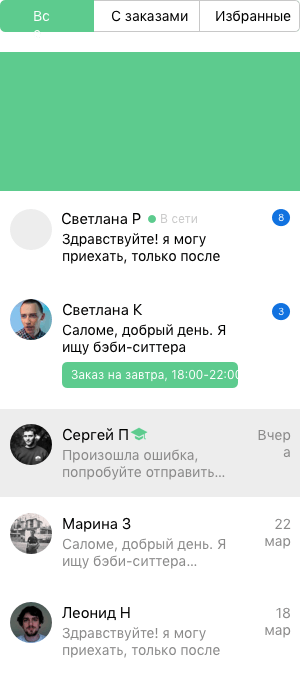
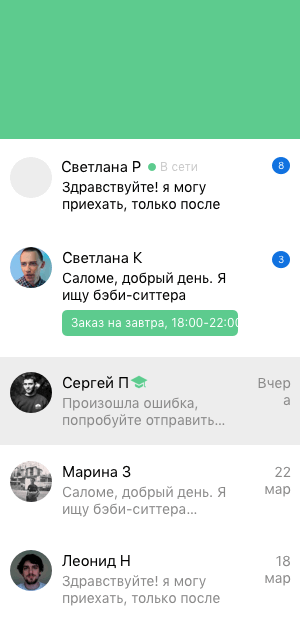
front-css: fixed

diff --git a/src/pages/ChatPage.js b/src/pages/ChatPage.js
@@ -37,9 +37,13 @@ class ChatPage extends Component {
 
     scrollToBottom() {
         const node = ReactDOM.findDOMNode(this.messagesContainer);
-        if (node) {
+        const nodeForm = ReactDOM.findDOMNode(this.formContainer);
+        console.log('node: ', node);
+        console.log('nodeForm: ', nodeForm);
+
+        if (node && nodeForm) {
             setTimeout(() => {
-                node.scrollTop = node.scrollHeight;
+                node.scrollTop = node.scrollHeight + nodeForm.scrollHeight;
             }, 10);
         }
     }
@@ -122,16 +126,21 @@ class ChatPage extends Component {
     renderForm() {
         const { message } = this.state;
         return (
-            <div className="chat__form">
-                <div className="row">
-                    <div className="col-10">
-                        <div className="chat__form-wrap">
-                            <div className="chat__form__message-copy">{message}{'\n'}</div>
-                            <textarea placeholder="Сообщение" value={message} onChange={this.onMessageChange} />
+            <div className="chat__form" ref={formContainer => { this.formContainer = formContainer; }}>
+                <div className="row container">
+                    <div className="col-3" />
+                    <div className="col-9">
+                        <div className="row chat__form__container">
+                            <div className="col-10">
+                                <div className="chat__form-wrap">
+                                    <div className="chat__form__message-copy">{message}{'\n'}</div>
+                                    <textarea placeholder="Сообщение" value={message} onChange={this.onMessageChange} />
+                                </div>
+                            </div>
+                            <div className="col-2">
+                                <button className="chat__form__btn" onClick={this.onSendMessage}>Отправить</button>
+                            </div>
                         </div>
-                    </div>
-                    <div className="col-2">
-                        <button className="chat__form__btn" onClick={this.onSendMessage}>Отправить</button>
                     </div>
                 </div>
             </div>
@@ -145,17 +154,29 @@ class ChatPage extends Component {
         if (!arParseMessages) { return null };
 
         return (
-            <div className="row container">
-                <div className="col-4">
-                    <div className="chat-users">
-                        <img src={leftSidebar} alt="leftSidebar" />
+            <div className="container container--main container--space">
+                <div className="chat-header">
+                    <div className="row container">
+                        <div className="col-3">
+                            <div className="chat-users__header"></div>
+                        </div>
+                        <div className="col-9">
+                            <ChatHeader profile={profile} />
+                        </div>
                     </div>
                 </div>
-                <div className="col-8">
-                    <ChatHeader profile={profile} />
-                    <div className="chat">
-                        {this.renderBody()}
-                        {this.renderForm()}
+
+                <div className="row">
+                    <div className="col-3">
+                        <div className="chat-sidebar">
+                            <img src={leftSidebar} alt="leftSidebar" width="100%"/>
+                        </div>
+                    </div>
+                    <div className="col-9">
+                        <div className="chat">
+                            {this.renderBody()}
+                            {this.renderForm()}
+                        </div>
                     </div>
                 </div>
             </div>

diff --git a/src/index.css b/src/index.css
@@ -424,6 +424,8 @@ body {
   margin: 0 auto;
   position: relative;
   padding: 0 70px; }
+  .container--main {
+    margin-top: 65px; }
 
 .hide {
   display: none; }
@@ -454,7 +456,11 @@ body {
 .header {
   height: 65px;
   background-color: #ffffff;
-  box-shadow: 0 2px 4px 0 rgba(0, 0, 0, 0.1); }
+  box-shadow: 0 2px 4px 0 rgba(0, 0, 0, 0.1);
+  position: fixed;
+  width: 100%;
+  top: 0;
+  z-index: 1; }
   .header__container {
     display: flex;
     align-items: center;
@@ -487,14 +493,23 @@ body {
   .header__menu a + a {
     margin-left: 40px; }
 
-.chat-users {
-  padding: 20px 0; }
-
 .chat-header {
+  position: fixed;
+  top: 65px;
+  left: 0;
+  width: 100%;
+  z-index: 1;
+  background-color: #f6f6f6; }
+
+.chat-sidebar {
+  padding: 20px 0;
+  height: 100%; }
+
+.chat-messages-header {
   border-bottom: 1px solid #c7c7c7;
   padding: 20px 0;
   position: relative; }
-  .chat-header__profile {
+  .chat-messages-header__profile {
     display: flex;
     align-items: center;
     position: absolute;
@@ -504,15 +519,15 @@ body {
 
 .chat__body {
   overflow-y: auto;
-  max-height: 75vh;
   overflow: -moz-scrollbars-none;
-  -ms-overflow-style: none; }
+  -ms-overflow-style: none;
+  background-color: #f6f6f6; }
 
 .chat__body::-webkit-scrollbar {
   width: 0 !important; }
 
 .chat {
-  padding: 20px 0 80px;
+  padding: 85px 0 80px;
   position: relative; }
   .chat__sender, .chat__recepient {
     width: 100%;
@@ -613,9 +628,15 @@ body {
   text-align: center; }
 
 .chat__form {
-  border-top: 1px solid #c7c7c7;
   width: 100%;
-  padding: 15px 0; }
+  position: fixed;
+  left: 0;
+  width: 100%;
+  bottom: 0; }
+  .chat__form__container {
+    border-top: 1px solid #c7c7c7;
+    padding: 15px 0;
+    background-color: #f6f6f6; }
   .chat__form__btn {
     border-radius: 5px;
     border: solid 2px #bfbfbf;
@@ -676,7 +697,7 @@ body {
   .row.right {
     justify-content: flex-end; }
   .row > [class*="col-"] {
-    padding: 0 10px; }
+    padding: 0 15px; }
   .row > [class*="col-"]:first-child {
     padding-left: 0; }
   .row > [class*="col-"]:last-child {

diff --git a/src/sass/base.sass b/src/sass/base.sass
@@ -37,6 +37,10 @@
   height: 65px
   background-color: #ffffff
   box-shadow: 0 2px 4px 0 rgba(0, 0, 0, 0.1)
+  position: fixed
+  width: 100%
+  top: 0
+  z-index: 1
 
   &__container
     display: flex
@@ -80,10 +84,19 @@
 //   /.header
 
 //   .chat
-.chat-users
-  padding: 20px 0
-
 .chat-header
+  position: fixed
+  top: 65px
+  left: 0
+  width: 100%
+  z-index: 1
+  background-color: #f6f6f6
+
+.chat-sidebar
+  padding: 20px 0
+  height: 100%
+
+.chat-messages-header
   border-bottom: 1px solid #c7c7c7
   padding: 20px 0
   position: relative
@@ -98,15 +111,15 @@
 
 .chat__body 
   overflow-y: auto
-  max-height: 75vh
   overflow: -moz-scrollbars-none
   -ms-overflow-style: none
+  background-color: #f6f6f6
 
 .chat__body::-webkit-scrollbar
   width: 0 !important
 
 .chat
-  padding: 20px 0 80px
+  padding: 85px 0 80px
   position: relative
 
   &__sender,
@@ -234,9 +247,16 @@
   text-align: center
 
 .chat__form
-  border-top: 1px solid #c7c7c7
   width: 100%
-  padding: 15px 0
+  position: fixed
+  left: 0
+  width: 100%
+  bottom: 0
+
+  &__container
+    border-top: 1px solid #c7c7c7
+    padding: 15px 0
+    background-color: #f6f6f6
 
   &__btn
     border-radius: 5px

diff --git a/src/components/Chat/ChatHeader.js b/src/components/Chat/ChatHeader.js
@@ -5,15 +5,15 @@ import Icon from './../Icon';
 const ChatHeader = props => {
     const { profile } = props;
     return (
-        <div className="chat-header centered">
-            <h3 className="chat-header__sender">{profile.name}</h3>
+        <div className="chat-messages-header centered">
+            <h3 className="chat-messages-header__sender">{profile.name}</h3>
             {profile.isOnline &&
                 <span className="status status--online">В сети</span>
             }
             {!profile.isOnline &&
                 <span className="status status--offline">Не в сети</span>
             }
-            <div className="chat-header__profile">
+            <div className="chat-messages-header__profile">
                 <Link to='/'>Профиль ситтера</Link>
                 <a><Icon className="svg-icon" iconName="icon-star" /></a>
             </div>

diff --git a/src/components/Header.js b/src/components/Header.js
@@ -30,7 +30,7 @@ class Header extends Component {
 
     return (
       <header className="header">
-        <div className="container header__container">
+        <div className="container container--space header__container">
           <Link className="header__logo" to='/'><img src={logo} alt="Logo" /></Link>
           <div className="header__menu">
               <NavLink to="/">Сообщения</NavLink>

diff --git a/src/sass/grid.sass b/src/sass/grid.sass
@@ -11,7 +11,7 @@
     justify-content: flex-end
 
   & > [class*="col-"]
-    padding: 0 10px
+    padding: 0 15px
 
   & > [class*="col-"]:first-child
     padding-left: 0

diff --git a/src/sass/layout.sass b/src/sass/layout.sass
@@ -37,4 +37,9 @@ body
   position: relative
   padding: 0 70px
 
+  &--main
+    margin-top: 65px
+
+  // &--space
+  //   padding: 0 70px
 
